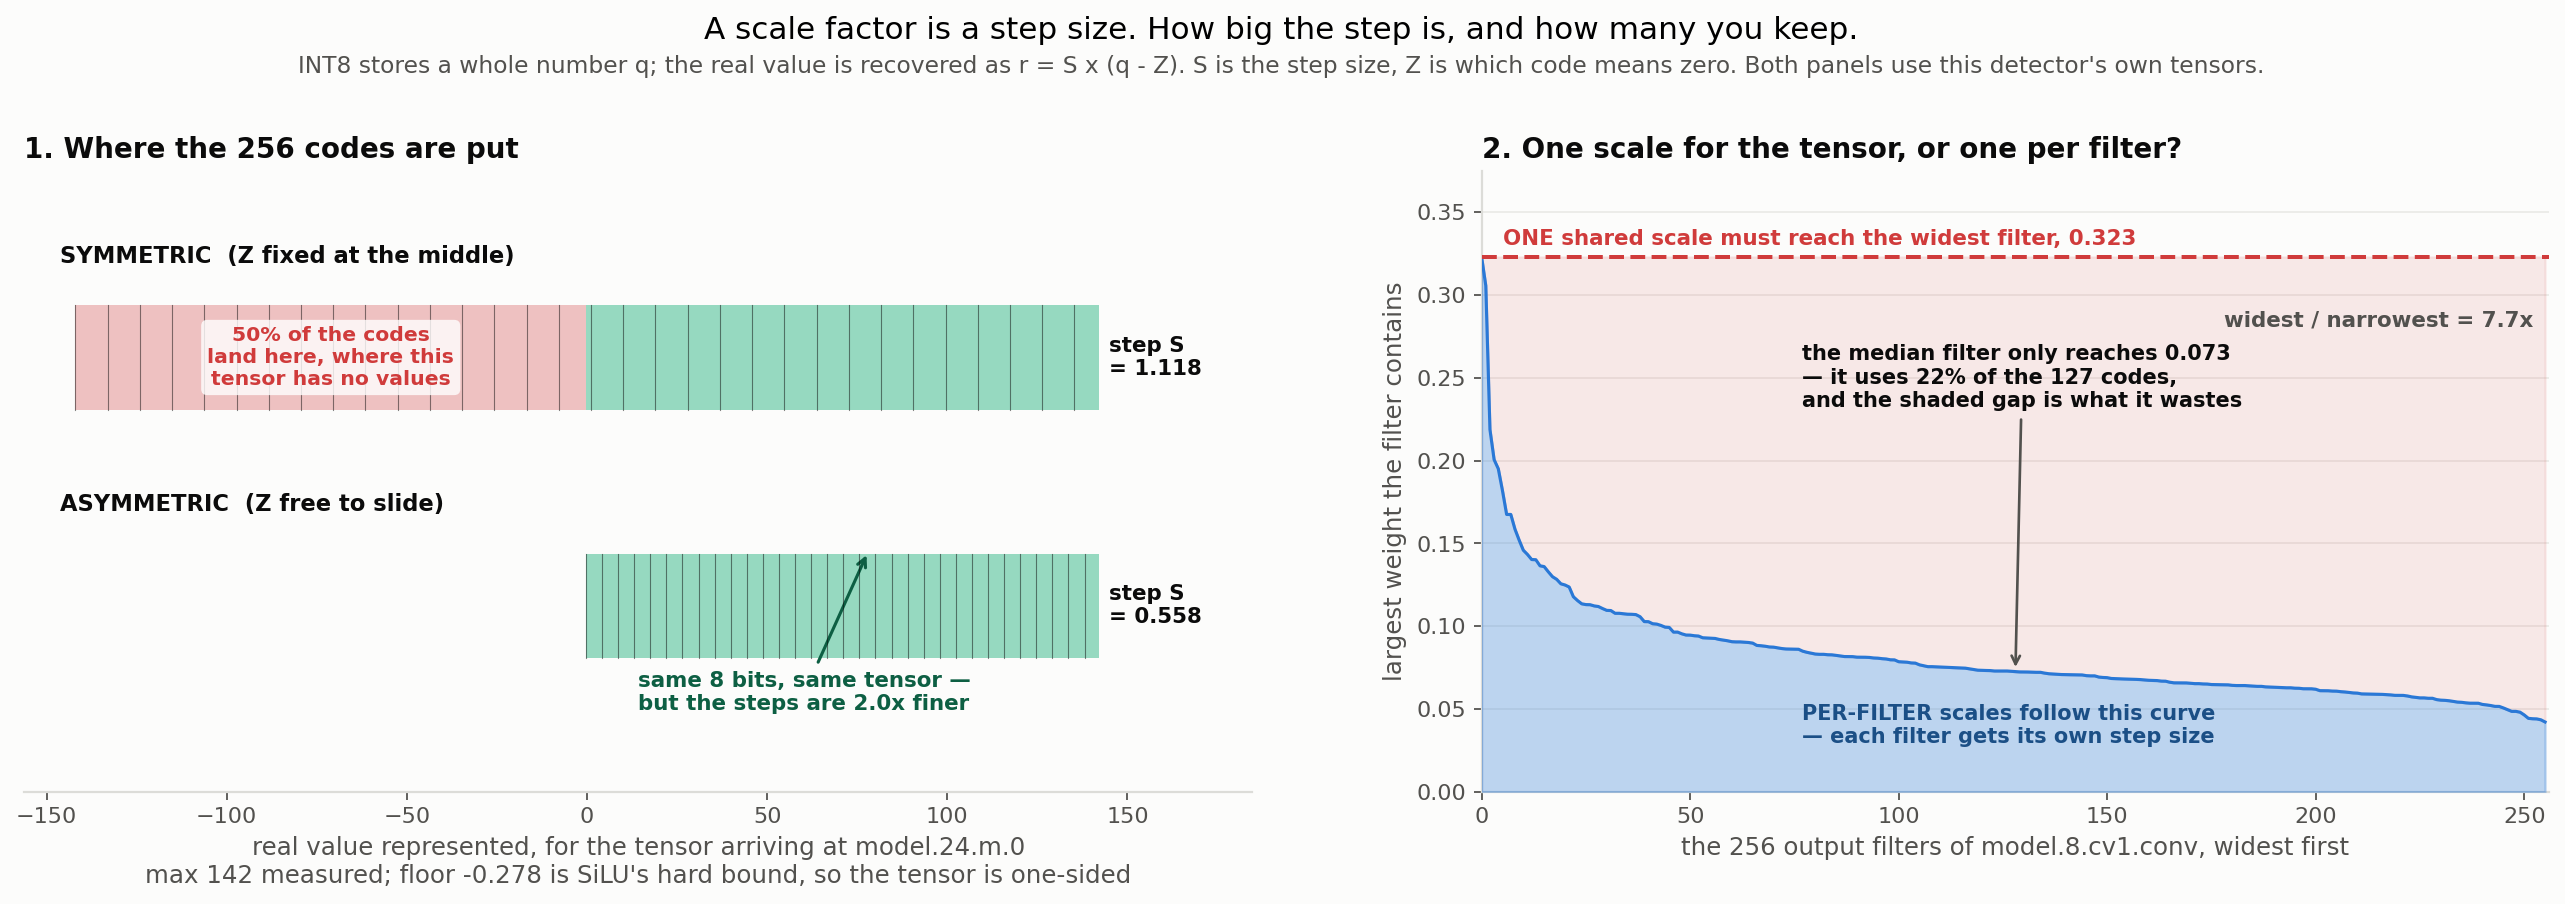
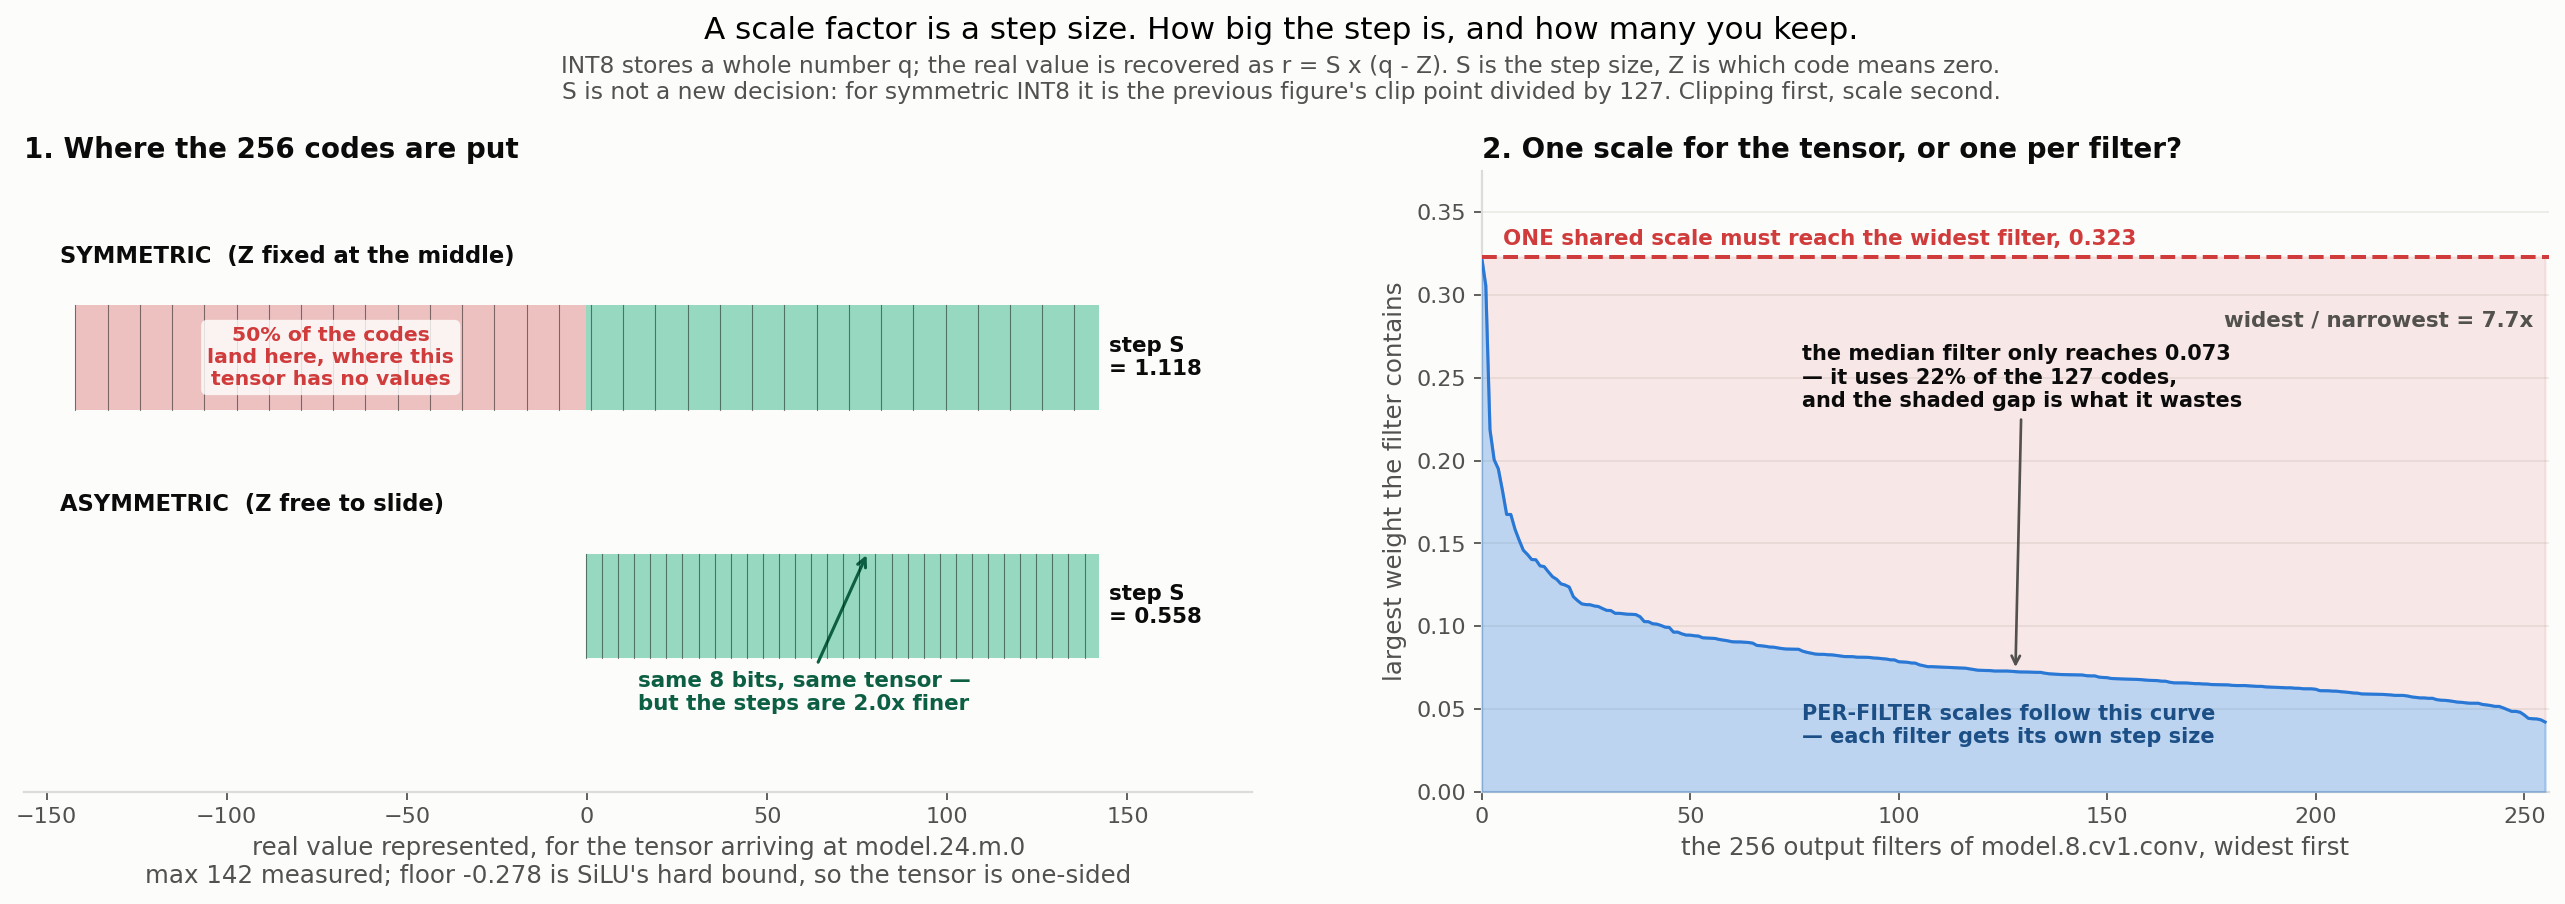
XP7-E3: say that the scale IS E2's clip point, divided by 127
Raised in review: how is the scale factor different from the clip point, and
which comes first? It is not different, and that was the page's fault - E2 and
E3 were written as two independent decisions when they are one pipeline.

quant_params() is one line for the symmetric case:

    amax  = max(|lo|, |hi|)     # this is T, E2's clip point
    scale = amax / 127          # so S = T / 127

Checked against the data: E2's entropy arm stops at T = 0.4475, and the scale
in TensorRT's own calibration cache is 0.0035237. Same number to float32
precision (relative difference 1.9e-8).

So the order is fixed, not chosen:

    calibrate  ->  the range lo..hi, where to stop        E2
    derive     ->  S and Z from that range                E3
    repeat     ->  per tensor, or per output filter       E3

Clipping always comes first; the scale is what clipping produces. E3 never
re-picks the range - it asks how that range is carved up (Z) and how many
ranges are kept (granularity). Stated in the README and on the figure.

Changed region(s): [[0.1248, 0.0619, 0.8733, 0.1239]]

diff --git a/analysis/make_figures.py b/analysis/make_figures.py
@@ -2905,8 +2905,9 @@ def fig_xp07_scales(records) -> Path | None:
     fig.suptitle("A scale factor is a step size. How big the step is, and how many you keep.",
                  y=1.04, fontsize=14)
     style.subtitle(fig, "INT8 stores a whole number q; the real value is recovered as "
-                        "r = S x (q - Z). S is the step size, Z is which code means zero. "
-                        "Both panels use this detector's own tensors.", y=0.995)
+                        "r = S x (q - Z). S is the step size, Z is which code means zero.\n"
+                        "S is not a new decision: for symmetric INT8 it is the previous figure's "
+                        "clip point divided by 127. Clipping first, scale second.", y=0.995)
 
     # ---- panel 1: what Z buys, on a real one-sided tensor -----------------
     for y, (lo, label, step) in enumerate(((-HI, "SYMMETRIC  (Z fixed at the middle)", sym_step),

diff --git a/experiments/xp07_quant/README.md b/experiments/xp07_quant/README.md
@@ -398,6 +398,29 @@ measured: fake-quant leaves every tensor a float. E4's engines are the measured 
 scale factors out of the accumulator and folds into the following batch-norm. Symmetric vs
 asymmetric activations is expected to be small at INT8.
 
+**First: the scale is not a new decision. It is E2's clip point, divided by 127.**
+
+For symmetric INT8, `quant_params()` does exactly one line of arithmetic on the calibrated range:
+
+```python
+amax  = max(|lo|, |hi|)     # this is T — E2's clip point
+scale = amax / 127          # so S = T / 127
+```
+
+E2's entropy arm stopped at **T = 0.4475**; the scale TensorRT stores in its calibration cache is
+**0.0035237**. Same number to float32 precision. So the two experiments are consecutive steps in
+one pipeline, not competing choices:
+
+| step | decides | where |
+|---|---|---|
+| **calibrate** | the range `lo … hi` — *where to stop* | **E2** |
+| **derive** | `S` and `Z` from that range | **E3** |
+| **repeat** | once per tensor, or once per output filter | **E3** |
+
+**Clipping comes first, always** — the scale is what clipping produces, so there is no ordering to
+choose. E3 never re-picks the range; it asks how that range is *carved up* (`Z`) and how many
+ranges are kept (granularity).
+
 **What a scale factor is**
 
 INT8 stores a whole number `q` between −128 and 127. The real number is rebuilt with two
